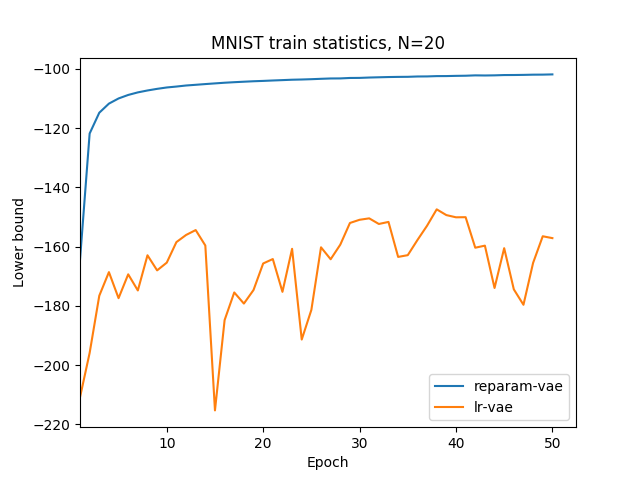
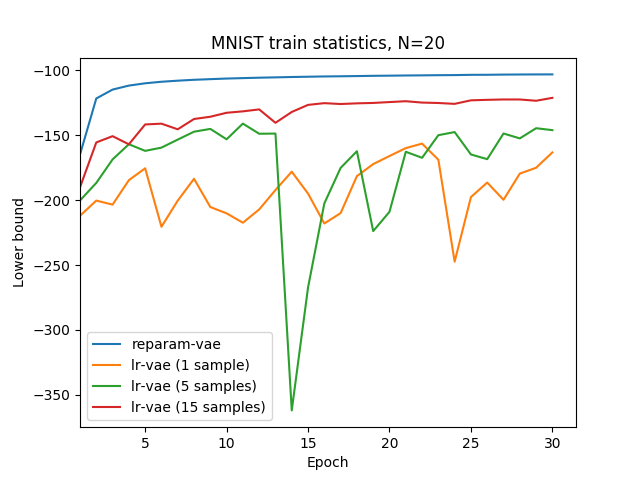
added ability to specify the number of samples to draw from posterior while training

diff --git a/lr_vae.py b/lr_vae.py
@@ -17,6 +17,8 @@ from torchvision.utils import save_image
 parser = argparse.ArgumentParser(description='VAE MNIST Example')
 parser.add_argument('--batch-size', type=int, default=128, metavar='N',
                     help='input batch size for training (default: 128)')
+parser.add_argument('--nb-samples', type=int, default=5, 
+                    help='number of samples to draw from the posterior per datapoint')
 parser.add_argument('--epochs', type=int, default=10, metavar='N',
                     help='number of epochs to train (default: 10)')
 parser.add_argument('--no-cuda', action='store_true', default=False,
@@ -47,7 +49,7 @@ test_loader = torch.utils.data.DataLoader(
 class Encoder(nn.Module):
     def __init__(self):
         super(Encoder, self).__init__()
-
+        
         self.fc1 = nn.Linear(784, 400)  
         self.fc21 = nn.Linear(400, 20)
         self.fc22 = nn.Linear(400, 20)
@@ -66,7 +68,7 @@ class Encoder(nn.Module):
         return self.fc21(h), self.fc22(h)
 
     def forward(self, x):
-        mu, logvar = self.encode(x.view(-1, 784))
+        mu, logvar = self.encode(x)
         std = logvar.mul(0.5).exp()
         return Normal(mu, std)
             
@@ -86,28 +88,40 @@ class Decoder(nn.Module):
         return self.sigmoid(self.fc2(h))
         
 
-encoder = Encoder()
-decoder = Decoder()
-if args.cuda:
-    encoder.cuda()
-    decoder.cuda()
-
-enc_opt = optim.Adam(encoder.parameters(), lr=1e-3)
-dec_opt = optim.Adam(decoder.parameters(), lr=1e-3)
+def get_network():
+    """Returns the network (encoder & decoder) and optimizers."""
+    encoder = Encoder()
+    decoder = Decoder()
+    if args.cuda:
+        encoder.cuda()
+        decoder.cuda()
+    
+    enc_opt = optim.Adam(encoder.parameters(), lr=1e-3)
+    dec_opt = optim.Adam(decoder.parameters(), lr=1e-3)
+    return encoder, decoder, enc_opt, dec_opt
 
 
 def loss_function(recon_x, x, mu, var):
     """Reconstruction + KL divergence losses summed over all elements and batch."""
-    bce = F.binary_cross_entropy(recon_x, x.view(-1, 784), size_average=False, reduce=False).sum(dim=1)
+    bce = F.binary_cross_entropy(recon_x, x, size_average=False, reduce=False)
+    bce = bce.sum(dim=2)
+    
+    # a trick to collapse a dimension with identical elements
+    mu = mu.mean(dim=1)
+    var = var.mean(dim=1)
+    
     kl = -0.5 * torch.sum(1 + var.log() - mu.pow(2) - var, dim=1)
-    return kl, bce, (bce + kl).sum()
+    return kl, bce, (bce.mean(dim=1) + kl).sum()
 
 
-def train(epoch, prefix=''):
+def train(encoder, decoder, enc_opt, dec_opt, epoch, nb_samples=1, prefix=''):
     encoder.train()
     train_loss = 0
     for batch_idx, (data, _) in enumerate(train_loader):
+
         data = Variable(data)
+        batch_size = data.shape[0]
+        data = data.view(-1, 784).view(batch_size, 1, -1).repeat(1, nb_samples, 1)
         if args.cuda: data = data.cuda()
 
         # pass datapoints through
@@ -123,8 +137,8 @@ def train(epoch, prefix=''):
         
         # encoder backward
         enc_opt.zero_grad()
-        logprobs = normal.log_prob(z).sum(dim=1)
-        enc_loss = (logprobs*bce + kl).sum()
+        logprobs = normal.log_prob(z).sum(dim=2)
+        enc_loss = ((logprobs*bce).mean(dim=1) + kl).sum()
         enc_loss.backward()
         enc_opt.step()
         
@@ -141,13 +155,16 @@ def train(epoch, prefix=''):
     return train_loss
 
 
-def test(epoch):
+def test(encoder, decoder, enc_opt, dec_opt, epoch):
     encoder.eval()
     test_loss = 0
     for i, (data, _) in enumerate(test_loader):
-        if args.cuda:
-            data = data.cuda()
+
         data = Variable(data)
+        batch_size = data.shape[0]
+        data = data.view(-1, 784).view(batch_size, 1, -1)
+        if args.cuda: data = data.cuda()
+        
         normal = encoder(data)
         z = normal.sample()
         recon_batch = decoder(z)
@@ -156,7 +173,7 @@ def test(epoch):
 
         if i == 0:
             n = min(data.size(0), 8)
-            comparison = torch.cat([data[:n],
+            comparison = torch.cat([data[:n].view(n, 1, 28, 28),
                                   recon_batch.view(args.batch_size, 1, 28, 28)[:n]])
             save_image(comparison.data.cpu(),
                      'results/reconstruction_' + str(epoch) + '.png', nrow=n)
@@ -169,12 +186,14 @@ def test(epoch):
 if __name__ == '__main__':
     if not os.path.isdir('results'):
         os.makedirs('results')
+    
+    encoder, decoder, enc_opt, dec_opt = get_network()
         
     train_bounds = []
     test_bounds = []
     for epoch in range(1, args.epochs + 1):
-        train_loss = train(epoch)
-        test_loss = test(epoch)
+        train_loss = train(encoder, decoder, enc_opt, dec_opt, epoch, args.nb_samples)
+        test_loss = test(encoder, decoder, enc_opt, dec_opt, epoch)
              
         train_bounds.append(-train_loss)
         test_bounds.append(-test_loss)
@@ -194,7 +213,7 @@ if __name__ == '__main__':
         ax = fig.add_subplot(111)
         ax.plot(train_bounds, label='Train')
         ax.plot(test_bounds, label='Test')
-        ax.set_title('MNIST (with reparameterization), N=20')
+        ax.set_title('lr-vae')
         ax.set_xlabel('Epoch')
         ax.set_ylabel('Lower bound')
         ax.legend()

diff --git a/analyse.py b/analyse.py
@@ -3,23 +3,38 @@ import matplotlib.pyplot as plt
 
 from reparam_vae import train as vae_train
 from lr_vae import train as lrvae_train
+from lr_vae import get_network
 
 
-NB_EPOCHS = 50
+lrvae1_enc, lrvae1_dec, lrvae1_encopt, lrvae1_decopt = get_network()
+lrvae5_enc, lrvae5_dec, lrvae5_encopt, lrvae5_decopt = get_network()
+lrvae15_enc, lrvae15_dec, lrvae15_encopt, lrvae15_decopt = get_network()
 
-vae_bounds, lrvae_bounds = [], []
+NB_EPOCHS = 30
+
+vae_bounds, lrvae1_bounds, lrvae5_bounds, lrvae15_bounds = [], [], [], []
 for epoch in range(1, NB_EPOCHS + 1):
     vae_loss = vae_train(epoch, 'vae. ')
-    lrvae_loss = lrvae_train(epoch, 'lr-vae. ')
+
+    lrvae1_loss = lrvae_train(lrvae1_enc, lrvae1_dec, lrvae1_encopt, lrvae1_decopt, 
+                              epoch, 1, prefix='lr-vae (1 sample). ')
+    lrvae5_loss = lrvae_train(lrvae5_enc, lrvae5_dec, lrvae5_encopt, lrvae5_decopt, 
+                              epoch, 5, prefix='lr-vae (5 samples). ')
+    lrvae15_loss = lrvae_train(lrvae15_enc, lrvae15_dec, lrvae15_encopt, lrvae15_decopt, 
+                              epoch, 15, prefix='lr-vae (15 samples). ')
     
     vae_bounds.append(-vae_loss)
-    lrvae_bounds.append(-lrvae_loss)
+    lrvae1_bounds.append(-lrvae1_loss)
+    lrvae5_bounds.append(-lrvae5_loss)
+    lrvae15_bounds.append(-lrvae15_loss)
 
     # plot loss graphs
     fig = plt.figure()
     ax = fig.add_subplot(111)
     ax.plot(np.arange(1, epoch+1), vae_bounds, label='reparam-vae')
-    ax.plot(np.arange(1, epoch+1), lrvae_bounds, label='lr-vae')
+    ax.plot(np.arange(1, epoch+1), lrvae1_bounds, label='lr-vae (1 sample)')
+    ax.plot(np.arange(1, epoch+1), lrvae5_bounds, label='lr-vae (5 samples)')
+    ax.plot(np.arange(1, epoch+1), lrvae15_bounds, label='lr-vae (15 samples)')
     ax.set_title('MNIST train statistics, N=20')
     ax.set_xlabel('Epoch')
     ax.set_xlim(xmin=1)
